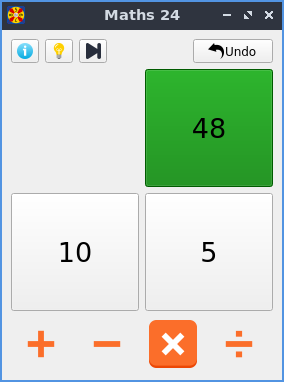
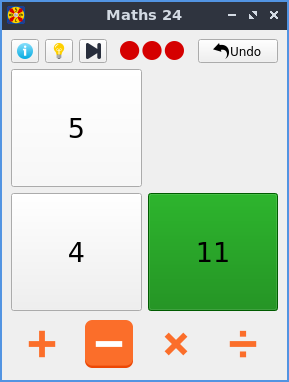
Added difficulty checker

diff --git a/maths24/maths24_ui.py b/maths24/maths24_ui.py
@@ -13,7 +13,7 @@ from PyQt5 import QtCore, QtGui, QtWidgets
 class Ui_MainWindow(object):
     def setupUi(self, MainWindow):
         MainWindow.setObjectName("MainWindow")
-        MainWindow.resize(280, 350)
+        MainWindow.resize(285, 350)
         icon = QtGui.QIcon()
         icon.addPixmap(QtGui.QPixmap("maths24/icons/icon.svg"), QtGui.QIcon.Normal, QtGui.QIcon.Off)
         MainWindow.setWindowIcon(icon)
@@ -47,6 +47,20 @@ class Ui_MainWindow(object):
         self.horizontalLayout_4.addWidget(self.pushButton_skip)
         spacerItem = QtWidgets.QSpacerItem(40, 20, QtWidgets.QSizePolicy.Expanding, QtWidgets.QSizePolicy.Minimum)
         self.horizontalLayout_4.addItem(spacerItem)
+        self.label_difficulty = QtWidgets.QLabel(self.centralwidget)
+        sizePolicy = QtWidgets.QSizePolicy(QtWidgets.QSizePolicy.Minimum, QtWidgets.QSizePolicy.Minimum)
+        sizePolicy.setHorizontalStretch(0)
+        sizePolicy.setVerticalStretch(0)
+        sizePolicy.setHeightForWidth(self.label_difficulty.sizePolicy().hasHeightForWidth())
+        self.label_difficulty.setSizePolicy(sizePolicy)
+        self.label_difficulty.setMaximumSize(QtCore.QSize(64, 19))
+        self.label_difficulty.setText("")
+        self.label_difficulty.setPixmap(QtGui.QPixmap("maths24/icons/icon_difficulty_hard.svg"))
+        self.label_difficulty.setScaledContents(True)
+        self.label_difficulty.setObjectName("label_difficulty")
+        self.horizontalLayout_4.addWidget(self.label_difficulty)
+        spacerItem1 = QtWidgets.QSpacerItem(40, 20, QtWidgets.QSizePolicy.Expanding, QtWidgets.QSizePolicy.Minimum)
+        self.horizontalLayout_4.addItem(spacerItem1)
         self.pushButton_undo = QtWidgets.QPushButton(self.centralwidget)
         sizePolicy = QtWidgets.QSizePolicy(QtWidgets.QSizePolicy.Maximum, QtWidgets.QSizePolicy.Fixed)
         sizePolicy.setHorizontalStretch(0)
@@ -192,6 +206,7 @@ class Ui_MainWindow(object):
         self.pushButton_info.setToolTip(_translate("MainWindow", "Info"))
         self.pushButton_hint.setToolTip(_translate("MainWindow", "Hint"))
         self.pushButton_skip.setToolTip(_translate("MainWindow", "Skip Puzzle"))
+        self.label_difficulty.setToolTip(_translate("MainWindow", "Hard"))
         self.pushButton_undo.setText(_translate("MainWindow", "Undo"))
         self.pushButton_number_1.setText(_translate("MainWindow", "1"))
         self.pushButton_number_2.setText(_translate("MainWindow", "1"))

diff --git a/maths24/game_model.py b/maths24/game_model.py
@@ -94,6 +94,34 @@ class GameModel:
                         pass
         return False, ''
 
+    def solutions(self) -> List[str]:
+        return [solution for solution in self._solutions()]
+
+    def _solutions(self):
+        for i, num_a in enumerate(self.numbers):
+            if num_a is None:
+                continue
+            for j, num_b in enumerate(self.numbers):
+                if num_b is None or i == j:
+                    continue
+                # Operations are in order of the difficulty humans find to do them
+                for operation in ['+', '-', 'x', '÷']:
+                    # Don't suggest negative number tiles
+                    if operation == '-' and frac(num_a) < frac(num_b):
+                        continue  # TODO: These operations are commutable, so this shouldn't be an error. I think?
+                    # Check if this branch leads to a solution
+                    try:
+                        result = self.evaluate(num_a, operation, num_b)
+                        model = self.make_move(i, j, result)
+                        if model.is_last_tile() and model.numbers[model.last_tile_id()] == '24':
+                            yield f'{num_a} {operation} {num_b}'
+                        else:
+                            for solution in model._solutions():
+                                yield f'{num_a} {operation} ({solution})'
+                    except ZeroDivisionError:
+                        pass
+        return []
+
     def difficulty(self) -> int:
         """
         Determines the difficulty of the puzzle.
@@ -105,4 +133,14 @@ class GameModel:
 
         :return: The difficulty as an integer. 1 = easy, 2 = medium, 3 = hard, and -1 means unsolvable.
         """
-        raise NotImplementedError
+        solutions = self.solutions()
+        divides = 0
+        for solution in solutions:
+            if 'x' not in solution and '÷' not in solution:
+                return 1
+            elif '÷' in solution:
+                divides += 1
+        if divides == len(solutions):
+            return 3
+        else:
+            return 2

diff --git a/maths24/game_view.py b/maths24/game_view.py
@@ -72,7 +72,7 @@ class GameView(QtWidgets.QMainWindow, maths24.maths24_ui.Ui_MainWindow):
             policy.setRetainSizeWhenHidden(True)  # Does not disappear when hidden
             btn.setSizePolicy(policy)
 
-    def reset_display(self, numbers: List[str]):
+    def reset_display(self, numbers: List[str], difficulty):
         """Resets the display for a new game."""
         # Reset number buttons
         for i, btn in enumerate(self.number_buttons):
@@ -87,6 +87,13 @@ class GameView(QtWidgets.QMainWindow, maths24.maths24_ui.Ui_MainWindow):
         for symbol, btn in self.arithmetic_buttons.items():
             btn.setIcon(_icons[symbol].unselected)
             # btn.setStyleSheet("")
+
+        # Set difficulty
+        self.label_difficulty.setPixmap(icons.get_difficulty_pixelmap(difficulty))
+        try:
+            self.label_difficulty.setToolTip({1: 'Easy', 2: 'Medium', 3: 'Hard'}[difficulty])
+        except KeyError:
+            self.label_difficulty.setToolTip('Unknown')
 
     def get_number(self, index: int):
         return self.number_buttons[index].text()

diff --git a/maths24/icons/__init__.py b/maths24/icons/__init__.py
@@ -1,8 +1,31 @@
 import os
 
+from PyQt5 import QtGui
+
 _ROOT = os.path.abspath(os.path.dirname(__file__))
 
 
 def get_icon(path: str):
     # print('Icons folder:', _ROOT)
     return os.path.join(_ROOT, path)
+
+
+_difficulty_pixelmaps = {
+    'easy': 'icon_difficulty_easy.svg',
+    'medium': 'icon_difficulty_medium.svg',
+    'hard': 'icon_difficulty_hard.svg'
+}
+
+
+def get_difficulty_pixelmap(difficulty: int) -> QtGui.QPixmap:
+    def _lazy_return(difficulty_str: str) -> QtGui.QPixmap:
+        if type(_difficulty_pixelmaps[difficulty_str]) == str:
+            _difficulty_pixelmaps[difficulty_str] = QtGui.QPixmap(get_icon(_difficulty_pixelmaps[difficulty_str]))
+        return _difficulty_pixelmaps[difficulty_str]
+
+    if difficulty == 1:
+        return _lazy_return('easy')
+    if difficulty == 2:
+        return _lazy_return('medium')
+    else:
+        return _lazy_return('hard')

diff --git a/tests/test_game_model.py b/tests/test_game_model.py
@@ -44,7 +44,9 @@ class MyTestCase(unittest.TestCase):
         for _ in range(1000):
             model = GameModel.random_puzzle()
             solvable, clue = model.clue()
+            solutions = model.solutions()
             self.assertTrue(solvable, f'Generated puzzle ({model.numbers}) must be solvable')
+            self.assertGreater(len(solutions), 0, f'Generated puzzle ({model.numbers}) must have solutions')
         self.assertEqual(True, False)
 
 

diff --git a/setup.py b/setup.py
@@ -5,7 +5,7 @@ with open("README.md", "r") as fh:
 
 setuptools.setup(
     name="maths24-qt", # Replace with your own username
-    version="0.9.9",
+    version="0.9.10",
     author="Courtney Pitcher",
     author_email="cr.pitcher@gmail.com",
     description="A maths puzzle game where the objective is to use arithmetic to make the number 24",

diff --git a/maths24/game_controller.py b/maths24/game_controller.py
@@ -29,7 +29,7 @@ class GameController:
         self._selected_first_number_button_id: Optional[int] = None
         self._selected_operation: Optional[str] = None
 
-        self._view.reset_display(model.numbers)
+        self._view.reset_display(model.numbers, model.difficulty())
 
     def _click_number(self, button_id: int):
         """

diff --git a/maths24/main.py b/maths24/main.py
@@ -8,7 +8,7 @@ from maths24.game_view import GameView
 from maths24.game_controller import GameController
 from maths24.strings import Strings
 
-__version__ = '0.9.9'
+__version__ = '0.9.10'
 __author__ = 'Courtney Richard Pitcher'
 
 

diff --git a/README.md b/README.md
@@ -8,7 +8,7 @@ A free and open-source implementation of Maths 24 (24 game).
 
 Get the deb file from the [releases page](https://github.com/IgniparousTempest/maths24-qt/releases).
 
-    sudo apt install ./python3-maths24-qt_0.9.9-1_all.deb
+    sudo apt install ./python3-maths24-qt_0.9.10-1_all.deb
 
 ### Windows
 
